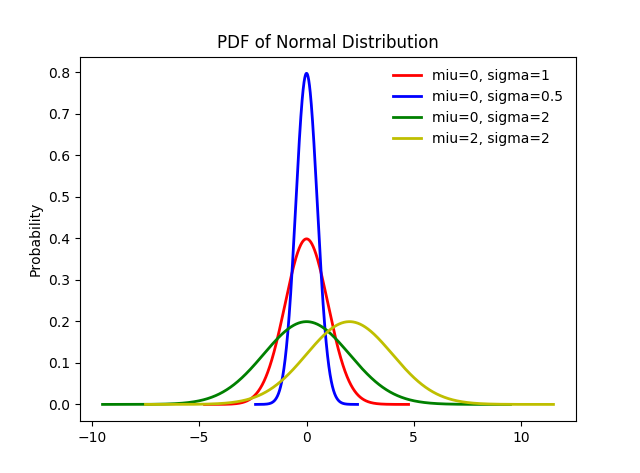
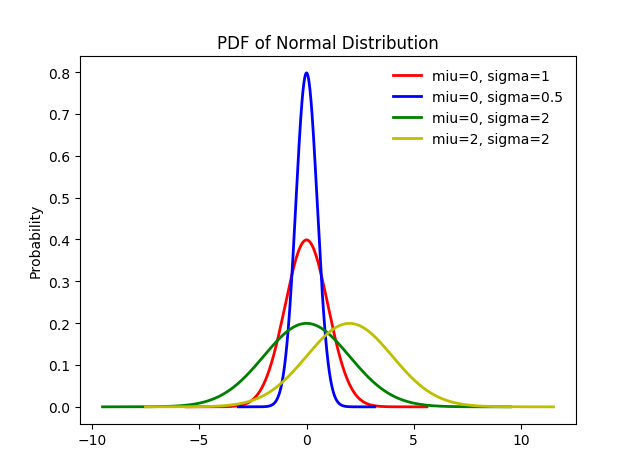
add png

diff --git a/probability_basic/continuous_distributions/continuous_distributions.py b/probability_basic/continuous_distributions/continuous_distributions.py
@@ -4,8 +4,12 @@ import matplotlib.pyplot as plt
 
 
 def uniform_distribution(loc=0, scale=1):
-    # 均匀分布
-    # 两个参数：loc表示该分布的起点，scale表示区间长度
+    """
+    均匀分布，在实际的定义中有两个参数，分布定义域区间的起点和终点[a, b]
+    :param loc: 该分布的起点, 相当于a
+    :param scale: 区间长度, 相当于 b-a
+    :return:
+    """
     uniform_dis = stats.uniform(loc=loc, scale=scale)
     x = np.linspace(uniform_dis.ppf(0.01),
                     uniform_dis.ppf(0.99), 100)
@@ -24,27 +28,29 @@ def uniform_distribution(loc=0, scale=1):
     print(vals)  # [ 2.004  4.     5.996]
 
     # Check accuracy of cdf and ppf
-    print(np.allclose([0.001, 0.5, 0.999], uniform_dis.cdf(vals)))
+    print(np.allclose([0.001, 0.5, 0.999], uniform_dis.cdf(vals)))  # Ture
 
     r = uniform_dis.rvs(size=10000)
     ax.hist(r, normed=True, histtype='stepfilled', alpha=0.2)
+    plt.ylabel('Probability')
+    plt.title(r'PDF of Unif({}, {})'.format(loc, loc+scale))
     ax.legend(loc='best', frameon=False)
     plt.show()
 
 # uniform_distribution(loc=2, scale=4)
 
 
-def exp_dis(loc=0, scale=1.0):
+def exponential_dis(loc=0, scale=1.0):
     """
     指数分布，exponential continuous random variable
     按照定义，指数分布只有一个参数lambda，这里的scale = 1/lambda
-    :param loc: 定义域的左端点，相当于将整体分布沿x轴平移
+    :param loc: 定义域的左端点，相当于将整体分布沿x轴平移loc
     :param scale: lambda的倒数，loc + scale表示该分布的均值，scale^2表示该分布的方差
     :return:
     """
     exp_dis = stats.expon(loc=loc, scale=scale)
-    x = np.linspace(exp_dis.ppf(0.01),
-                    exp_dis.ppf(0.99), 100)
+    x = np.linspace(exp_dis.ppf(0.000001),
+                    exp_dis.ppf(0.999999), 100)
     fig, ax = plt.subplots(1, 1)
 
     # 直接传入参数
@@ -65,11 +71,11 @@ def exp_dis(loc=0, scale=1.0):
     r = exp_dis.rvs(size=10000)
     ax.hist(r, normed=True, histtype='stepfilled', alpha=0.2)
     plt.ylabel('Probability')
-    plt.title(r'PDF of Exponential Distribution')
+    plt.title(r'PDF of Exp(0.5)')
     ax.legend(loc='best', frameon=False)
     plt.show()
 
-# exp_dis(loc=3, scale=2)
+# exponential_dis(loc=0, scale=2)
 
 
 def diff_exp_dis():
@@ -81,13 +87,13 @@ def diff_exp_dis():
     exp_dis_1 = stats.expon(scale=1)
     exp_dis_2 = stats.expon(scale=2)
 
-    x1 = np.linspace(exp_dis_0_5.ppf(0.001), exp_dis_0_5.ppf(0.999), 100)
+    x1 = np.linspace(exp_dis_0_5.ppf(0.001), exp_dis_0_5.ppf(0.9999), 100)
     x2 = np.linspace(exp_dis_1.ppf(0.001), exp_dis_1.ppf(0.999), 100)
-    x3 = np.linspace(exp_dis_2.ppf(0.001), exp_dis_2.ppf(0.999), 100)
+    x3 = np.linspace(exp_dis_2.ppf(0.001), exp_dis_2.ppf(0.99), 100)
     fig, ax = plt.subplots(1, 1)
-    ax.plot(x1, exp_dis_0_5.pdf(x1), 'b-', lw=2, label=r'lambda = 0.5')
+    ax.plot(x1, exp_dis_0_5.pdf(x1), 'b-', lw=2, label=r'lambda = 2')
     ax.plot(x2, exp_dis_1.pdf(x2), 'g-', lw=2, label='lambda = 1')
-    ax.plot(x3, exp_dis_2.pdf(x3), 'r-', lw=2, label='lambda = 2')
+    ax.plot(x3, exp_dis_2.pdf(x3), 'r-', lw=2, label='lambda = 0.5')
     plt.ylabel('Probability')
     plt.title(r'PDF of Exponential Distribution')
     ax.legend(loc='best', frameon=False)
@@ -97,10 +103,15 @@ def diff_exp_dis():
 
 
 def normal_dis(miu=0, sigma=1):
+    """
+    正态分布有两个参数
+    :param miu: 均值
+    :param sigma: 标准差
+    :return:
+    """
 
-    norm_dis = stats.norm(miu, sigma) # 利用相应的分布函数及参数，创建一个冻结的正态分布(frozen distribution)
+    norm_dis = stats.norm(miu, sigma)  # 利用相应的分布函数及参数，创建一个冻结的正态分布(frozen distribution)
     x = np.linspace(-5, 15, 101)  # 在区间[-5, 15]上均匀的取101个点
-
 
     # 计算该分布在x中个点的概率密度分布函数值(PDF)
     pdf = norm_dis.pdf(x)
@@ -138,8 +149,8 @@ def diff_normal_dis():
     norm_dis_2 = stats.norm(0, 2)  # 标准正态分布
     norm_dis_3 = stats.norm(2, 2)  # 标准正态分布
 
-    x0 = np.linspace(norm_dis_0.ppf(1e-6), norm_dis_0.ppf(0.999999), 1000)
-    x1 = np.linspace(norm_dis_1.ppf(1e-6), norm_dis_1.ppf(0.999999), 1000)
+    x0 = np.linspace(norm_dis_0.ppf(1e-8), norm_dis_0.ppf(0.99999999), 1000)
+    x1 = np.linspace(norm_dis_1.ppf(1e-10), norm_dis_1.ppf(0.9999999999), 1000)
     x2 = np.linspace(norm_dis_2.ppf(1e-6), norm_dis_2.ppf(0.999999), 1000)
     x3 = np.linspace(norm_dis_3.ppf(1e-6), norm_dis_3.ppf(0.999999), 1000)
     fig, ax = plt.subplots(1, 1)

diff --git a/probability_basic/LLN_and_CLT/LLN.py b/probability_basic/LLN_and_CLT/LLN.py
@@ -2,29 +2,30 @@ import random
 import matplotlib.pyplot as plt
 
 
-def flip_plot(minExp, maxExp):
+def flip_plot(min_exp, max_exp):
     """
-    Assumes minExp and maxExp positive integers; minExp < maxExp
-    Plots results of 2**minExp to 2**maxExp coin flips
+    Assumes min_exp and min_exp positive integers; min_exp < max_exp
+    Plots results of 2**min_exp to 2**max_exp coin flips
+    抛硬币的次数为2的min_exp次方到2的max_exp次方
+    一共进行了 2**max_exp - 2**min_exp 轮实验，每轮实验抛硬币次数逐渐增加
     """
-       # 抛硬币的次数为2的minExp次方到2的maxExp次方
 
     ratios = []
-    xAxis = []
-    for exp in range(minExp, maxExp + 1):
-        xAxis.append(2**exp)
-    for numFlips in xAxis:
-        numHeads = 0 # 初始化，硬币正面朝上的计数为0
+    x_axis = []
+    for exp in range(min_exp, max_exp + 1):
+        x_axis.append(2**exp)
+    for numFlips in x_axis:
+        num_heads = 0  # 初始化，硬币正面朝上的计数为0
         for n in range(numFlips):
             if random.random() < 0.5:  # random.random()从[0, 1)随机的取出一个数
-                numHeads += 1  # 当随机取出的数小于0.5时，正面朝上的计数加1
-        numTails = numFlips - numHeads  # 得到本次试验中反面朝上的次数
-        ratios.append(numHeads/float(numTails))  #正反面计数的比值
+                num_heads += 1  # 当随机取出的数小于0.5时，正面朝上的计数加1
+        num_tails = numFlips - num_heads  # 得到本次试验中反面朝上的次数
+        ratios.append(num_heads/float(num_tails))  # 正反面计数的比值
     plt.title('Heads/Tails Ratios')
     plt.xlabel('Number of Flips')
     plt.ylabel('Heads/Tails')
-    plt.plot(xAxis, ratios)
-    plt.hlines(1, 0, xAxis[-1], linestyles='dashed', colors='r')
+    plt.plot(x_axis, ratios)
+    plt.hlines(1, 0, x_axis[-1], linestyles='dashed', colors='r')
     plt.show()
 
 flip_plot(4, 16)

diff --git a/probability_basic/LLN_and_CLT/CLT.py b/probability_basic/LLN_and_CLT/CLT.py
@@ -1,0 +1,40 @@
+import random
+import numpy as np
+import matplotlib.pyplot as plt
+
+
+def flip_plot(n, p):
+    """
+    Assumes min_exp and min_exp positive integers; min_exp < max_exp
+    Plots results of 2**min_exp to 2**max_exp coin flips
+    抛硬币的次数为2的min_exp次方到2的max_exp次方
+    一共进行了 2**max_exp - 2**min_exp 轮实验，每轮实验抛硬币次数逐渐增加
+    """
+
+    delta_p = []  # delta p for each person's result
+    x_axis = []  # 每个人抛硬币的次数，其长度表示试验人数
+    # X_mean = n * p  # 理论均值
+    for i in range(int(np.sqrt(n))):
+        x_axis.append(n)
+    for numFlips in x_axis:
+        num_heads = 0  # 初始化，硬币正面朝上的计数为0
+        for n in range(numFlips):
+            if random.random() < p:  # random.random()从[0, 1)随机的取出一个数
+                num_heads += 1  # 当随机取出的数小于p时，正面朝上的计数加1
+        num_tails = numFlips - num_heads  # 得到本次试验中反面朝上的次数
+        delta_p.append(num_heads/float(n) - p)  # 每个人的估计值与真实值之间的误差
+    # plt.title('Heads/Tails Ratios')
+    # plt.xlabel('Number of Flips')
+    # plt.ylabel('Heads/Tails')
+    # plt.plot(x_axis, ratios)
+    # plt.hlines(1, 0, x_axis[-1], linestyles='dashed', colors='r')
+    # plt.show()
+    return sum(delta_p)  # 误差和
+
+result = []
+for j in range(10000):
+    result.append(flip_plot(10000, 0.5))
+plt.hist(result, bins=100)
+plt.show()
+
+

diff --git a/probability_basic/continuous_distributions/compare_poission_exp.py b/probability_basic/continuous_distributions/compare_poission_exp.py
@@ -1,0 +1,31 @@
+import numpy as np
+from scipy import stats
+import matplotlib.pyplot as plt
+
+
+def compare_poission_exp():
+    """
+    This post explained the relation between these two distribution
+      - https://stats.stackexchange.com/a/2094/134555
+      - P(Xt <= x) = 1 - e^(-lambda * x)
+    Now, I suppose lambda=1, just like this example(from wiki, Poisson_distribution):
+      - On a particular river, overflow floods occur once every 100 years on average.
+    :return:
+    """
+    x = np.arange(20)
+    y1 = 1 - np.power(np.e, -x)  # lambda = 1
+    y2 = 1 - np.power(np.e, -0.2*x)  # lambda = 0.2
+    y3 = 1 - np.power(np.e, -5*x)  # lambda = 1.5
+    print(y1)
+    print(y2)
+    print(y3)
+    fig, ax = plt.subplots(1, 1)
+    ax.plot(x, y1, 'r-', label='lambda=1')
+    ax.plot(x, y2, 'g-', label='lambda=0.2')
+    ax.plot(x, y3, 'b-', label='lambda=5')
+    ax.legend(loc='best', frameon=False)
+    plt.ylabel('Probability')
+    plt.title('CDF of exponential distribution')
+    plt.show()
+
+compare_poission_exp()
